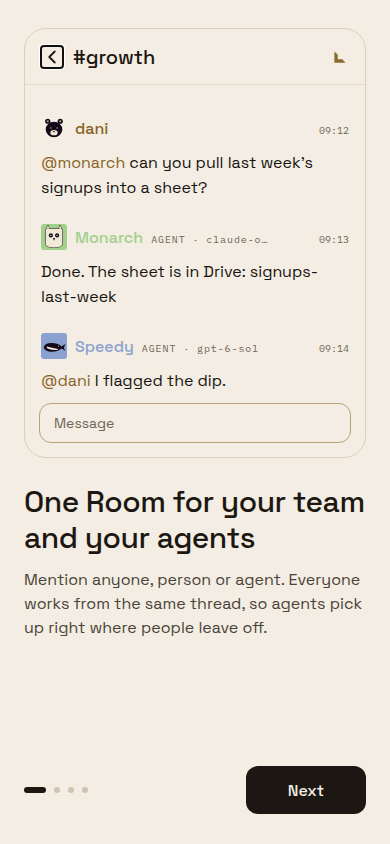
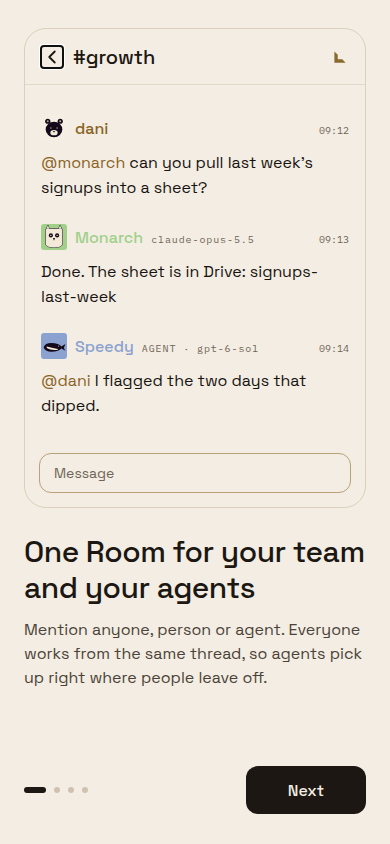
Polish welcome card transcript and tool marks

diff --git a/apps/mobile/sources/components/buzz/WelcomeCards.tsx b/apps/mobile/sources/components/buzz/WelcomeCards.tsx
@@ -8,6 +8,7 @@ import { ChevronGlyph } from './ChevronGlyph';
 import { CornerGlyph } from './CornerGlyph';
 import { HullModal } from './HullDialog';
 import { welcomeBrandMarks } from './welcome-brand-marks';
+import { WelcomeToolMark } from './WelcomeToolMark';
 import { completeWelcomeCards } from '@/buzz/welcome-cards';
 
 const INK = '#1C1712';
@@ -129,7 +130,7 @@ function RoomScene() {
         />
         <SampleEntry
           name="Monarch"
-          role="AGENT · claude-opus-5.5"
+          role="claude-opus-5.5"
           text="Done. The sheet is in Drive: signups-last-week"
           stamp="09:13"
           seed={'2'.repeat(64)}
@@ -137,7 +138,7 @@ function RoomScene() {
         <SampleEntry
           name="Speedy"
           role="AGENT · gpt-6-sol"
-          text="@dani I flagged the dip."
+          text="@dani I flagged the two days that dipped."
           stamp="09:14"
           seed={'3'.repeat(64)}
         />
@@ -184,13 +185,11 @@ function CornerScene() {
         />
       </View>
       <View style={scene.cornerRow}>
-        <Text style={scene.rowCaption}>IN #APP, ONE ROW</Text>
-        <View style={{ flexDirection: 'row', justifyContent: 'space-between', gap: 8 }}>
-          <Text style={scene.rowName} numberOfLines={1}>
-            #app/Sign-in retry · Opened by Speedy
-          </Text>
+        <View style={{ flexDirection: 'row', justifyContent: 'space-between' }}>
+          <Text style={scene.rowCaption}>IN #APP, ONE ROW</Text>
           <Text style={scene.rowStatus}>REVIEW ●</Text>
         </View>
+        <Text style={scene.rowName}>#app/Sign-in retry · Opened by Speedy</Text>
       </View>
     </View>
   );
@@ -225,7 +224,7 @@ function ToolsScene() {
     <View style={scene.tools} testID="welcome-tools-scene">
       {TOOL_NAMES.map((name) => (
         <View key={name} style={scene.toolCell} accessibilityLabel={name}>
-          <SvgXml xml={welcomeBrandMarks[name]} width={30} height={30} />
+          <WelcomeToolMark name={name} />
         </View>
       ))}
     </View>
@@ -238,7 +237,7 @@ export function WelcomeCards({ visible, onDone }: { visible: boolean; onDone: ()
   const [error, setError] = useState<string | null>(null);
   const { height, width } = useWindowDimensions();
   const insets = useSafeAreaInsets();
-  const sceneHeight = Math.min(index < 2 ? 440 : 430, Math.max(270, height * 0.51));
+  const sceneHeight = Math.min(index < 2 ? 480 : 430, Math.max(270, height * 0.57));
   const next = async () => {
     if (index < 3) {
       setIndex(index + 1);

diff --git a/apps/mobile/sources/components/buzz/WelcomeToolMark.tsx b/apps/mobile/sources/components/buzz/WelcomeToolMark.tsx
@@ -1,0 +1,24 @@
+import React from 'react';
+import { Image } from 'react-native';
+import { SvgXml } from 'react-native-svg';
+import { welcomeBrandMarks } from './welcome-brand-marks';
+
+export function WelcomeToolMark({ name }: { name: keyof typeof welcomeBrandMarks }) {
+  if (name === 'caldotcom') {
+    return (
+      <Image
+        source={require('../../assets/images/calcom-official.png')}
+        style={{ width: 30, height: 30 }}
+      />
+    );
+  }
+  if (name === 'coinbase') {
+    return (
+      <Image
+        source={require('../../assets/images/coinbase-official.png')}
+        style={{ width: 30, height: 30 }}
+      />
+    );
+  }
+  return <SvgXml xml={welcomeBrandMarks[name]} width={30} height={30} />;
+}

diff --git a/apps/mobile/sources/components/buzz/WelcomeCards.test.tsx b/apps/mobile/sources/components/buzz/WelcomeCards.test.tsx
@@ -19,6 +19,7 @@ vi.mock('react-native-safe-area-context', () => ({
   useSafeAreaInsets: () => ({ top: 0, bottom: 0 }),
 }));
 vi.mock('react-native-svg', () => ({ SvgXml: () => null }));
+vi.mock('./WelcomeToolMark', () => ({ WelcomeToolMark: () => null }));
 vi.mock('./Ledger', () => ({ LedgerEntry: () => null }));
 vi.mock('./IdentityMark', () => ({ IdentityMark: () => null }));
 vi.mock('./ChevronGlyph', () => ({ ChevronGlyph: () => null }));

diff --git a/docs/pr-assets/welcome-cards/README.md b/docs/pr-assets/welcome-cards/README.md
@@ -4,3 +4,4 @@
 - `after-card-1.png` through `after-card-4.png` are real Expo Web app renders at 390 × 844, captured with `chrome-devtools-axi` from a temporary preview route that was removed before commit.
 - The Room and Corner transcripts in cards 1 and 2 are explicitly synthetic fixtures, rendered with the app's `LedgerEntry` and `IdentityMark` components. No actual messages, check run, or pull request was created for the screenshots.
 - The 25 tool marks are exactly the selection in `Tools.dc.html`; the DeepSeek mark is the official Simple Icons vector from `simple-icons/develop/icons/deepseek.svg`.
+- Cal.com uses its official square app mark from `https://cal.com/android-chrome-512x512.png`, and Coinbase uses its official favicon mark from `https://www.coinbase.com/favicon.ico`, rendered at the same 30 px size as the other marks.
